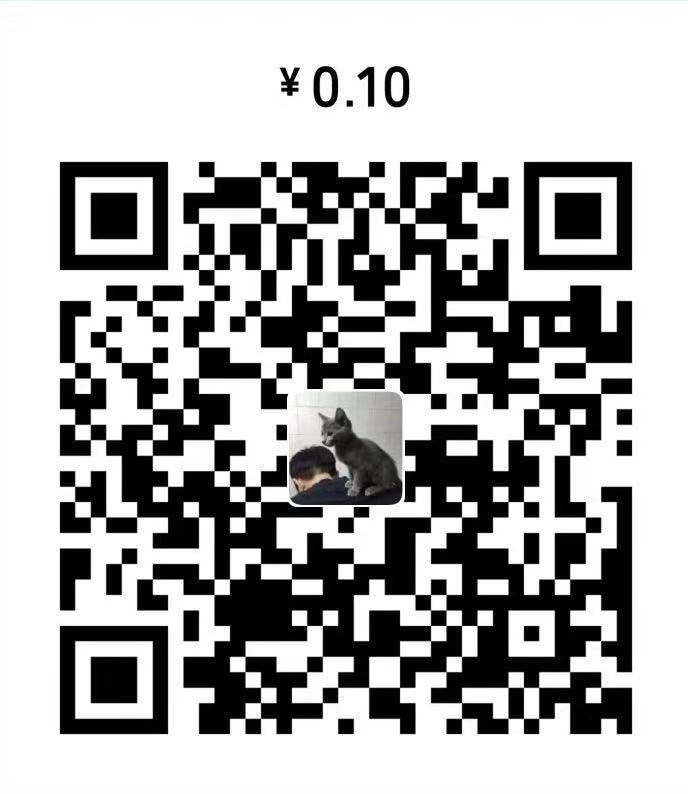
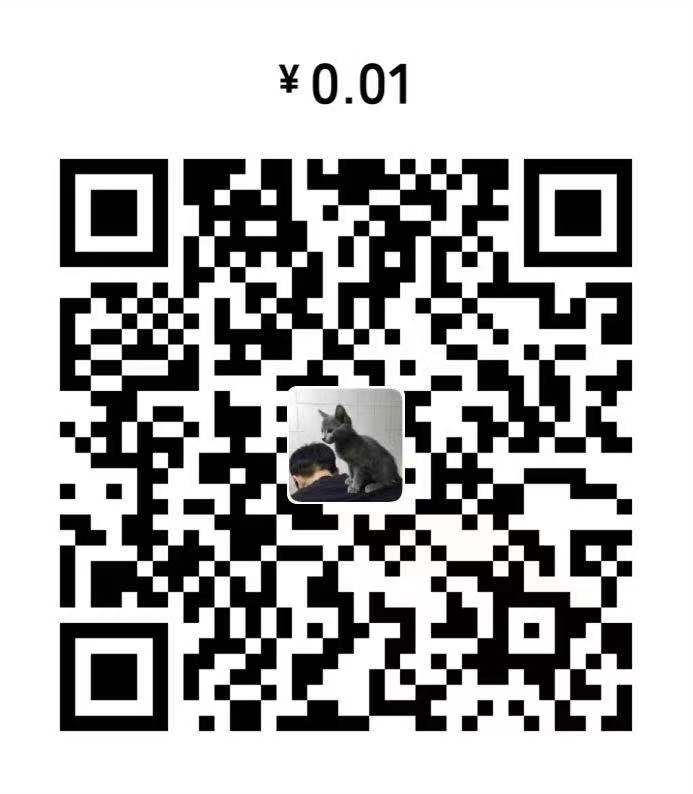
fix

diff --git a/src/views/me.balance.vue b/src/views/me.balance.vue
@@ -67,7 +67,7 @@
       <img :src="qrcode" class="qrcode-img" alt="微信二维码" />
       <div class="center msg">
         提现账户: {{phone}}
-        <br />长按二维码扫描或保存, 请在15分钟内支付手续费0.1元, 即可完成操作哦 ^ _ ^
+        <br />长按二维码扫描或保存, 请在15分钟内支付手续费0.01元, 即可完成操作哦 ^ _ ^
       </div>
     </van-popup>
   </div>
